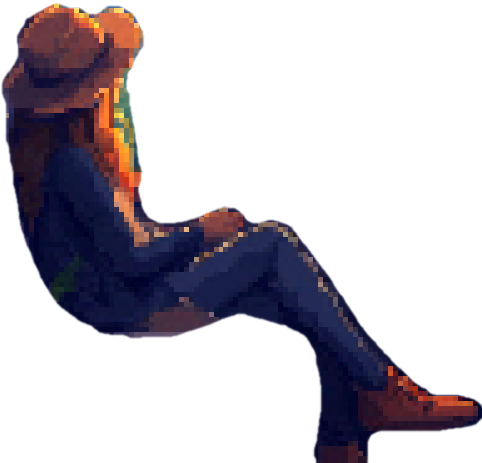
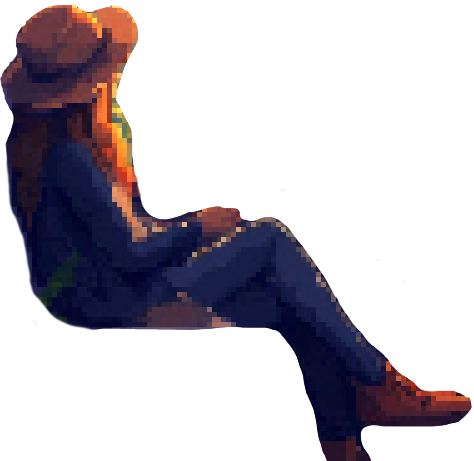
Added outline for the girl

Changed region(s): [[0.0, 0.0, 1.0, 1.0]]

diff --git a/style.css b/style.css
@@ -1,76 +1,84 @@
-@font-face {
-  font-family: 'Calligraphy';
-  src: url('source/Calligrapher/Calligrapher') format('ttf');
-  font-weight: normal;
-  font-style: normal;
-}
-
-/* Prevent responsive scaling */
 body {
-  min-width: 1024px; /* Adjust based on your desktop design */
+  min-width: 1024px; 
 }
 
-/* Override media queries */
 @media screen and (max-width: 1024px) {
   body {
-    zoom: 1 !important; /* Prevent scaling */
+    zoom: 1 !important; 
     width: 1024px !important;
     overflow-x: auto;
   }
 }
 
-#background_body {
-  /* position: relative; */
-  background-repeat: no-repeat;
-  background-size: 100%;
+body {
+  /* width: 100%;
+  height: 100%; */
+  margin: 0;
+  height: 100vh;
+  background: url("source/images/background9.png") no-repeat center center fixed;
+  background-size: cover;
+  position: relative;
 }
 
 /* --------------- Objects ------------------ */
 
-.gif-background {
+.container {
+  position: relative;
+  width: 100%;
+  height: 100vh;
+}
+
+.gif-object {
+  position: absolute;
   background-size: cover;
   background-repeat: no-repeat;
   transition: filter 0.3s ease-in-out;
-  /* pointer-events: none; */
-  position: fixed;
 }
 
-.gif-background:hover {
+.gif-object:hover {
   filter: drop-shadow(0 0 5px white);
 }
 
-#gif_cat {
-  background-image: url('source/images/objects/gif_image_cat_1.gif');
-  width: 20%;
-  height: 30%;
-  left: 25%;
-  top: 50%;
+.gif-object:hover .tooltip-box {
+  visibility: visible;
+  opacity: 1;
 }
 
 #gif_cup_holder {
   background-image: url('source/images/objects/cup_holder_2.png');
   width: 12%;
-  height: 15%;
-  right: 35%;
-  bottom: 15%;
+  height: 12%;
+  left: 60%;
+  top: 73%;
+  transform: translate(-50%, -50%);
+}
+
+#gif_cat {
+  background-image: url('source/images/objects/gif_image_cat_1.gif');
+  width: 15%;
+  height: 25%;
+  left: 50%;
+  top: 60%;
+  transform: translate(-50%, -50%);
 }
 
 #gif_laptop {
-  background-image: url('source/images/objects/laptop.png');
+  background-image: url('source/images/objects/laptop_2.png');
   width: 13%;
   height: 17%;
-  right: 25%;
+  right: 20%;
   bottom: 10%;
+  transform: translate(-50%, -50%);
 }
 
 #gif_girl {
+  clip-path: polygon(0 0, 29% 0, 38% 35%, 100% 55%, 100% 100%, 67% 100%, 54% 78%, 0 71%);
   background-image: url('source/images/objects/girl.png');
-  width: 482px;
-  height: 463px;
-  /* left: 0px;
-  top: 0px; */
-  /* right: 480px;
-  bottom: 110px; */
+  width: 32%;
+  height: 64%;
+  left: 22%;
+  top: 42%;
+  /* transform: translate(-50%, -50%); */
 }
 
 .tooltip-box {
@@ -83,19 +91,14 @@ body {
   padding: 10px;
   font-size: 14px;
   position: absolute;
-  bottom: 70%; 
-  left: 70%;
+  bottom: 50%; 
+  left: 50%;
   transform: translateX(-50%);
   opacity: 0; 
   transition: opacity 0.3s, visibility 0.3s;
 }
 
-.gif-background:hover .tooltip-box {
-  visibility: visible;
-  opacity: 1;
-}
-
-/* ------------------- Popup --------------------- */
+/* ------------------- Popups --------------------- */
 
 .popup {
   position: fixed;

diff --git a/site.html b/site.html
@@ -10,28 +10,28 @@
 
 </head> 
 
-<body background="source/images/background9.png" id="background_body"> 
+<body id="background_body">
 
-	<div class="block" id="block">
-		<div class="gif-background" id="gif_cat" onclick="openPDF()">
+	<div class="container">
+		<div class="gif-object" id="gif_cat" onclick="openPDF()">
 			<div class="tooltip-box">My CV</div>
 		</div>
-	</div>
-	
-	<!-- <div class="gif-background" id="gif_girl" onclick="openPDF()"></div> -->
-	
-	
-	<div class="gif-background" id="gif_cup_holder" onclick="openPopup()">
-		<div class="tooltip-box">Links and thanks</div>
-	</div>
-	<div class="gif-background" id="gif_laptop" onclick="openPDF()">
-		<div class="tooltip-box">My projects</div>
-	</div>
+		<div class="gif-object" id="gif_laptop">
+			<div class="tooltip-box">My projects</div>
+		</div>
+		<div class="gif-object" id="gif_cup_holder" onclick="openPopup('popup_links')">
+			<div class="tooltip-box">Links and thanks</div>
+		</div>
+		<div class="gif-object" id="gif_girl" onclick="openPopup('popup_about')">
+			<div class="tooltip-box">About me</div>
+		</div>
+    </div>
 
-	<div id="popup" class="popup">
+
+	<div id="popup_links" class="popup">
 		<div class="popup-content">
 			<div class="popup-body">
-				<span class="close" onclick="closePopup()">&times;</span> 
+				<span class="close" onclick="closePopup('popup_links')">&times;</span> 
 				<h1>Links and thanks to:</h1>
 				<p>
 					<a href="https://www.geeksforgeeks.org/how-to-stretch-and-scale-background-image-using-css/?ref=ml_lbp" target="_blank">GeeksforGeeks,</a>
@@ -50,7 +50,7 @@
 	<div id="popup_about" class="popup">
 		<div class="popup-content">
 			<div class="popup-body">
-				<span class="close" onclick="closePopup()">&times;</span> 
+				<span class="close" onclick="closePopup('popup_about')">&times;</span> 
 				<h1>Hello, stranger!</h1>
 				<p>
 					My name is Lada and I am a middle game developer. I am grad to share my background with you!. 
@@ -71,9 +71,8 @@
 </body> 
 </html>
 
-<!-- outline for the girl -->
-<!-- apk running (or videos) -->
 <!-- fix objects positions -->
+<!-- apk running (or videos) -->
 
 
 <!-- Future work: -->

diff --git a/script.js b/script.js
@@ -15,14 +15,17 @@ function onclick_event() {
   }
 
 // Открываем popup
-function openPopup() {
-  document.getElementById("popup").classList.add("show");
+function openPopup(id) {
+  document.getElementById(id).classList.add("show");
 }
 
 // Закрываем popup
-function closePopup() {
-  document.getElementById("popup").classList.remove("show");
+function closePopup(id) {
+  document.getElementById(id).classList.remove("show");
 }
 
-
-// https://www.geeksforgeeks.org/how-to-add-gif-in-html/
+function getDisplayedBackgroundSize(element) {
+  let rect = element.getBoundingClientRect();
+  myString = ("Displayed Background Size:", rect.width + "x" + rect.height);
+  document.getElementById("text_content").textContent = myString;
+}
